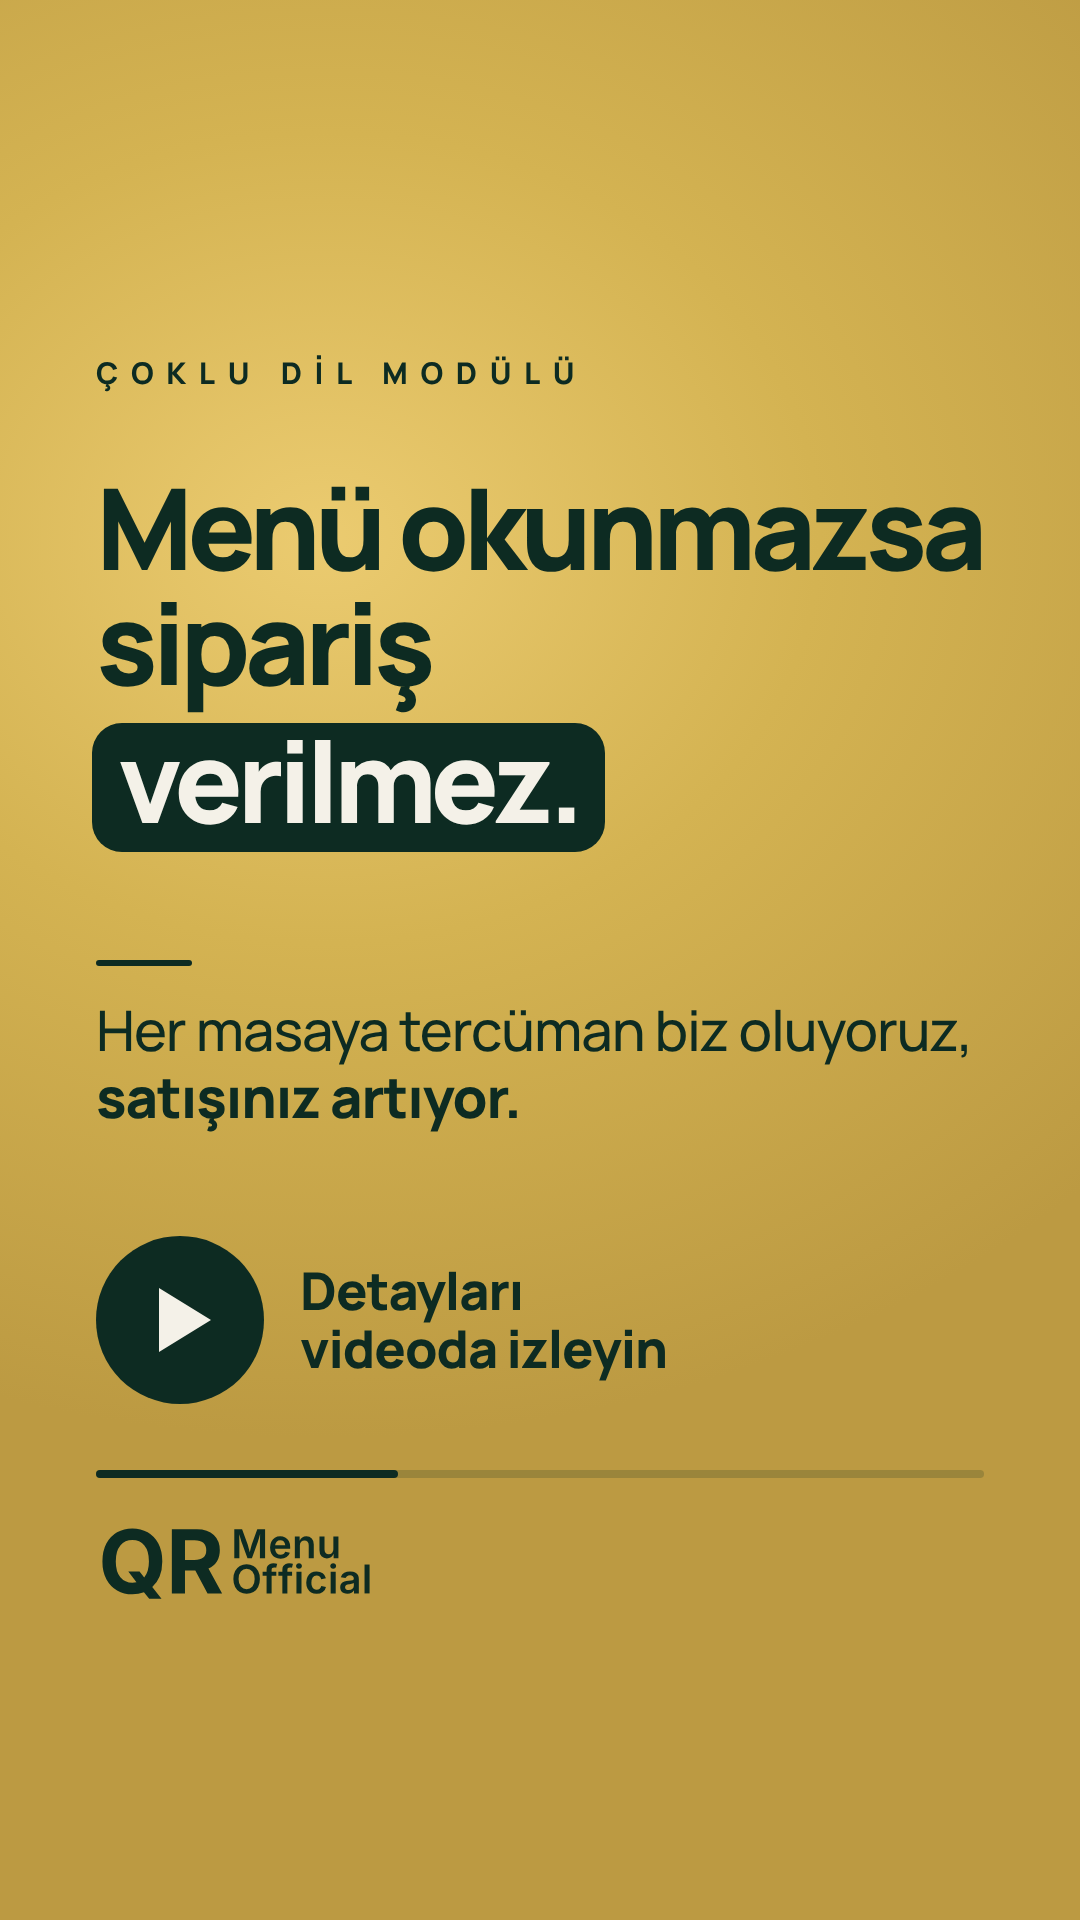
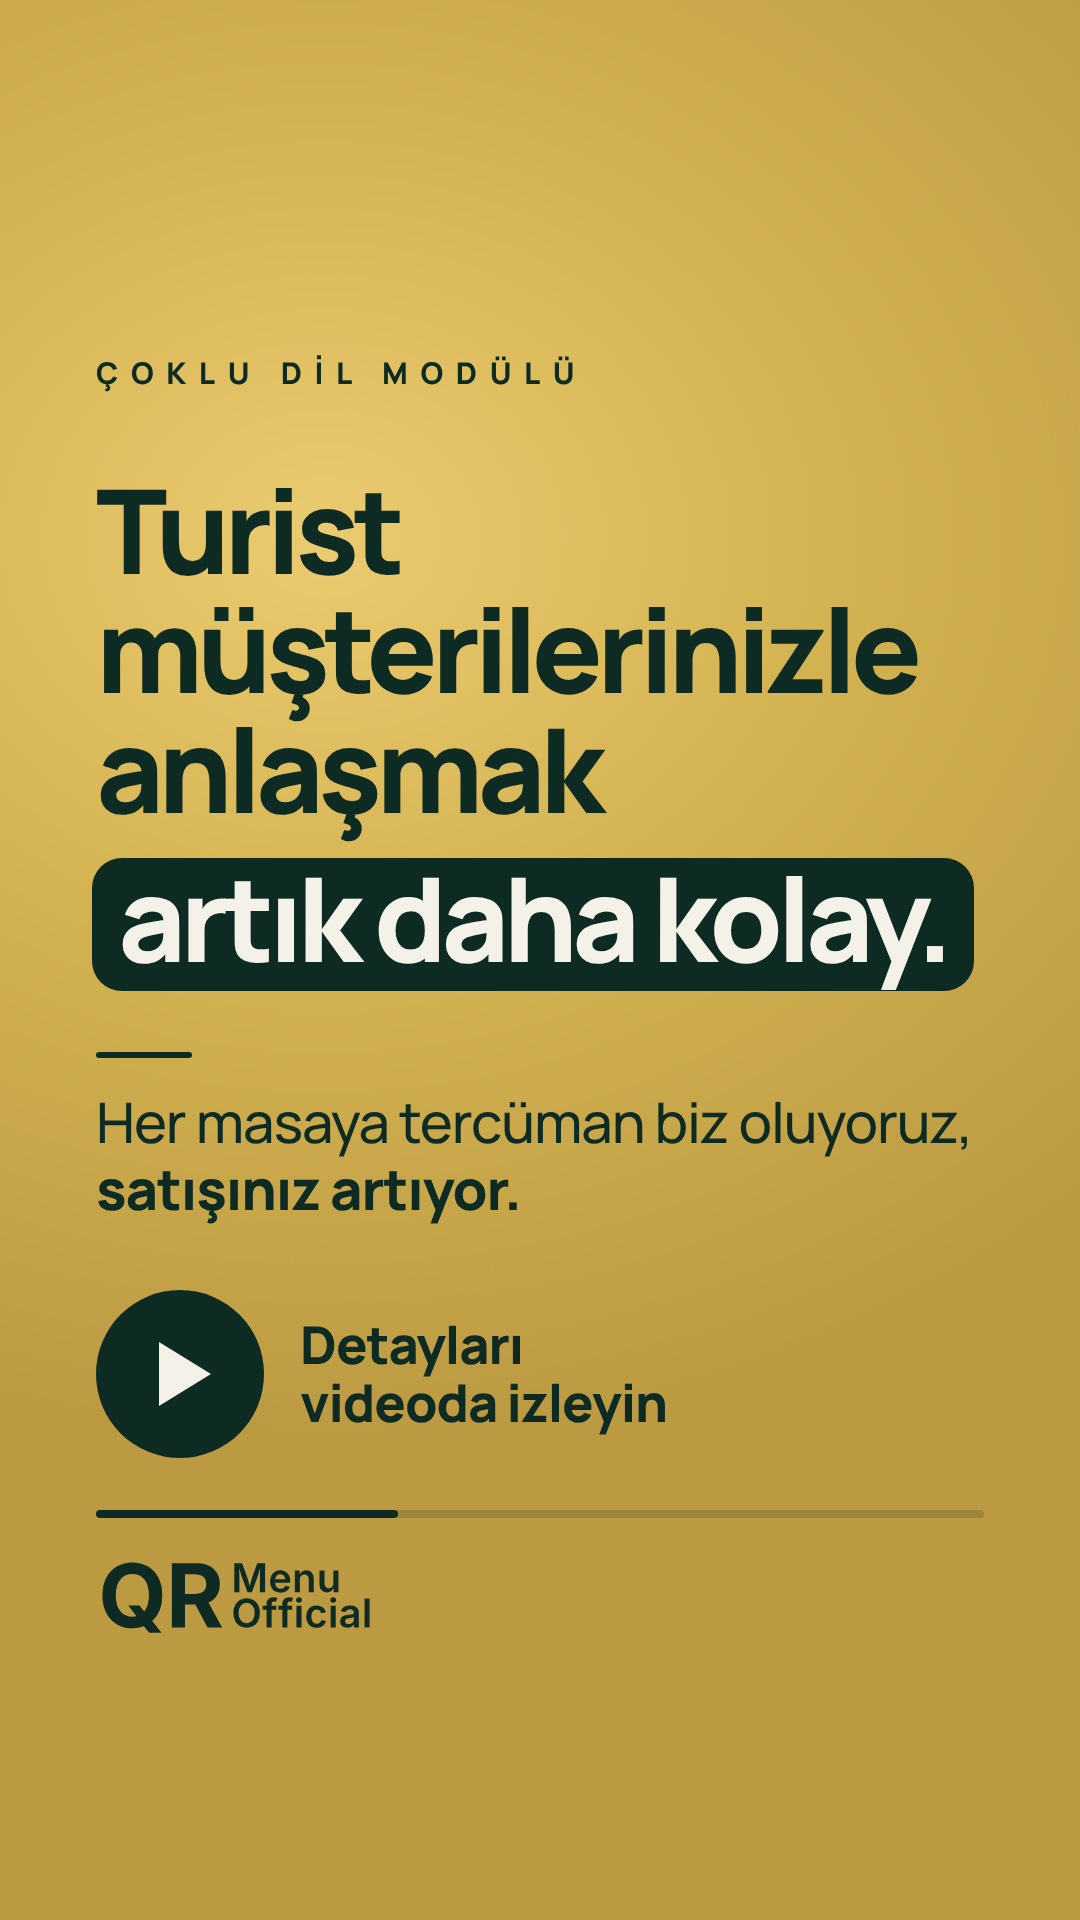
Reels kapağı: kanca 'Turist müşterilerinizle anlaşmak artık daha kolay.'
Claude-Session: https://claude.ai/code/session_01FBw9rVwrniVjyFvtgVdFXq

Changed region(s): [[0.0611, 0.25, 0.9167, 0.875]]

diff --git a/analiz/video/kapak/kapak-video.html b/analiz/video/kapak/kapak-video.html
@@ -9,19 +9,19 @@ html,body{width:1080px;height:1920px;overflow:hidden;font-family:Manrope,sans-se
 .h{position:absolute;left:96px;top:470px;font-weight:800;letter-spacing:-.05em;line-height:1.02}
 .h span{display:block;white-space:nowrap}
 .pill{display:inline-block;background:var(--y);color:var(--off);padding:0 26px 14px;border-radius:30px;line-height:1.02;margin-left:-4px}
-.play{position:absolute;left:96px;top:1236px;display:flex;align-items:center;gap:36px}
+.play{position:absolute;left:96px;top:1290px;display:flex;align-items:center;gap:36px}
 .play .c{width:168px;height:168px;border-radius:50%;background:var(--y);display:grid;place-items:center}
 .play .c svg{margin-left:10px}
 .play .t{font-weight:800;font-size:52px;line-height:1.12;letter-spacing:-.02em}
-.bar{position:absolute;left:96px;width:888px;top:1470px;height:8px;border-radius:4px;background:#0D2B2230}
+.bar{position:absolute;left:96px;width:888px;top:1510px;height:8px;border-radius:4px;background:#0D2B2230}
 .bar i{display:block;height:100%;width:34%;border-radius:4px;background:var(--y)}
-.logo{position:absolute;left:96px;top:1522px}.logo svg{width:280px;display:block}
-.rule{position:absolute;left:96px;top:960px;width:96px;height:6px;border-radius:3px;background:var(--y)}
-.s{position:absolute;left:96px;top:996px;font-size:56px;line-height:1.2;letter-spacing:-.02em;font-weight:500}
+.logo{position:absolute;left:96px;top:1556px}.logo svg{width:280px;display:block}
+.rule{position:absolute;left:96px;top:1052px;width:96px;height:6px;border-radius:3px;background:var(--y)}
+.s{position:absolute;left:96px;top:1088px;font-size:56px;line-height:1.2;letter-spacing:-.02em;font-weight:500}
 .s b{font-weight:800}
 </style></head><body>
 <div class="lab">ÇOKLU DİL MODÜLÜ</div>
-<div class="h" id="H"><span>Menü okunmazsa</span><span>sipariş</span><span style="margin-top:22px"><b class="pill">verilmez.</b></span></div>
+<div class="h" id="H"><span>Turist</span><span>müşterilerinizle</span><span>anlaşmak</span><span style="margin-top:30px"><b class="pill">artık daha kolay.</b></span></div>
 <div class="rule"></div><div class="s">Her masaya tercüman biz oluyoruz,<br><b>satışınız artıyor.</b></div>
 <div class="play"><div class="c"><svg width="64" height="72" viewBox="0 0 64 72"><path d="M6 4 L58 36 L6 68 Z" fill="#F4F1E8"/></svg></div><div class="t">Detayları<br>videoda izleyin</div></div>
 <div class="bar"><i></i></div>
@@ -33,7 +33,7 @@ html,body{width:1080px;height:1920px;overflow:hidden;font-family:Manrope,sans-se
 </svg>
 </div>
 <script>
-document.fonts.ready.then(()=>{const e=document.getElementById('H');let f=210;e.style.fontSize=f+'px';
+document.fonts.ready.then(()=>{const e=document.getElementById('H');let f=140;e.style.fontSize=f+'px';
  const w=()=>Math.max(...[...e.children].map(c=>{const r=document.createRange();r.selectNodeContents(c);return r.getBoundingClientRect().width}));
  while(w()>888&&f>100){f--;e.style.fontSize=f+'px'}document.body.dataset.ready=1});
 </script></body></html>
